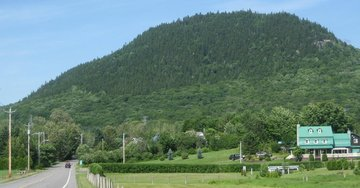
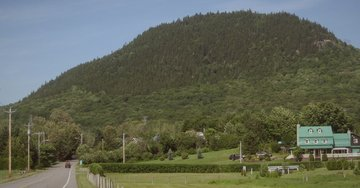
Photos des sentiers au style NÉA (voile chaud, ombres graphite, vignette) + script
Claude-Session: https://claude.ai/code/session_01MfMeCopMkZb9h8dMnsxXAz

diff --git a/scripts/photo-sentier.py b/scripts/photo-sentier.py
@@ -1,0 +1,34 @@
+"""
+Photo d'un sentier au style NÉA : voile chaud orange (#FF6B1A, lumière douce 30 %), ombres vers le graphite,
+léger assombrissement et vignette. Écrit assets/randos/<id>_grand.jpg (1000 px) et <id>.jpg (vignette 360 × 188).
+Usage : python3 scripts/photo-sentier.py <photo source> <id du sentier>
+"""
+import sys
+
+import numpy as np
+from PIL import Image, ImageEnhance
+
+
+def teinter(im: Image.Image) -> Image.Image:
+    im = ImageEnhance.Color(im.convert('RGB')).enhance(0.92)
+    a = np.asarray(im).astype(np.float32) / 255
+    o = np.array([1.0, 0.42, 0.10])
+    doux = np.where(o <= 0.5, 2 * a * o + a * a * (1 - 2 * o), 2 * a * (1 - o) + np.sqrt(a) * (2 * o - 1))
+    a = a * 0.7 + doux * 0.3
+    g = np.array([0x22, 0x23, 0x28]) / 255
+    a = (a * 0.9 + g * 0.1 * (1 - a)) * 0.92
+    h, w, _ = a.shape
+    y, x = np.ogrid[:h, :w]
+    r = np.sqrt(((x - w / 2) / (w / 2)) ** 2 + ((y - h / 2) / (h / 2)) ** 2)
+    a *= (1 - 0.22 * np.clip(r - 0.55, 0, 1) ** 1.5)[..., None]
+    return Image.fromarray((np.clip(a, 0, 1) * 255).astype(np.uint8))
+
+
+if __name__ == '__main__':
+    src, id_ = sys.argv[1], sys.argv[2]
+    p = teinter(Image.open(src))
+    w, h = p.size
+    p.resize((1000, round(1000 * h / w)), Image.LANCZOS).save(f'assets/randos/{id_}_grand.jpg', quality=82)
+    hv = round(w * 188 / 360)
+    y = max(0, (h - hv) // 2)
+    p.crop((0, y, w, y + hv)).resize((360, 188), Image.LANCZOS).save(f'assets/randos/{id_}.jpg', quality=85)

diff --git a/CLAUDE.md b/CLAUDE.md
@@ -249,7 +249,8 @@ qui ne renvoie plus rien quand sa mémoire de 300 RR est pleine (après ~4 min),
     difficulté (facile < 6 km et < 250 m, difficile > 15 km ou > 700 m) ; **Suggestion du jour** (`suggestion` : niveau, récupération du jour) ;
     fiche avec la carte du tracé, « Itinéraire jusqu'au départ », mention © OpenStreetMap ; pas de carte Explorateur pour ces sentiers
     (Overpass bloqué dans l'environnement de dev : testé avec des réponses simulées, à valider sur iPhone)
-  - **illustrations de l'utilisateur (oct. 2026)** : vraies photos d'Acropole, Montmorency (+ point « Chute ») et Mont Wright (`<id>_grand.jpg`) ;
+  - **illustrations de l'utilisateur (oct. 2026)** : vraies photos d'Acropole, Montmorency (+ point « Chute ») et Mont Wright (`<id>_grand.jpg`),
+    au style NÉA (voile chaud orange, ombres graphite, vignette : `python3 scripts/photo-sentier.py <photo> <id>`) ;
     scènes d'Axel en bandeau 16:9 (`DECO_IMAGES`) : salle (carte « Ta prochaine séance » le jour J), étirements (jours de repos),
     trail (Course avant le départ, à la place de la carte vide), sommet (carte « Rando libre »)
   - reste : vraies photos du Lac des Cygnes et des Loups, liste validée, rando sur la montre et « Ouvrir sur la montre » (build), photo au sommet
